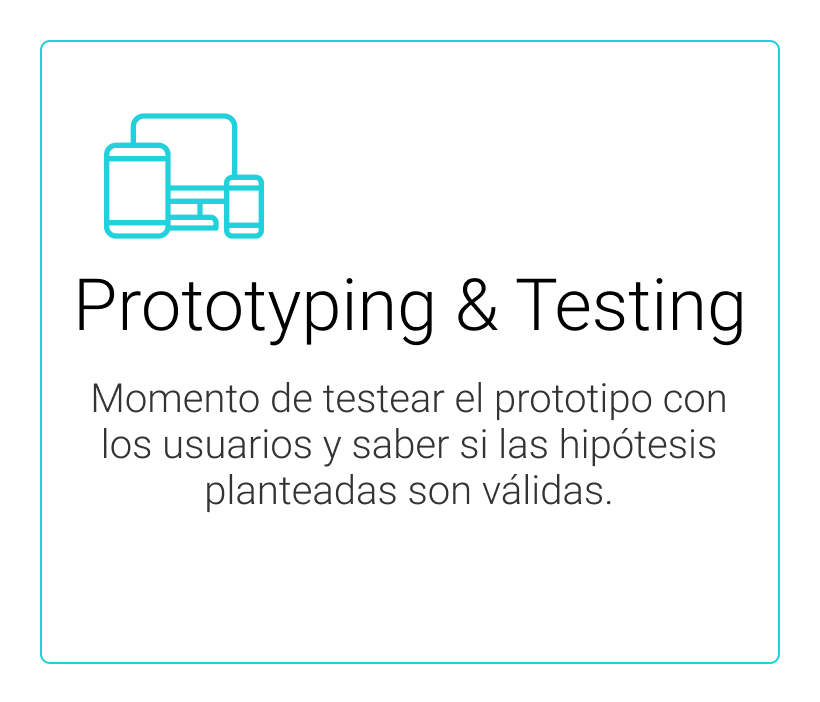
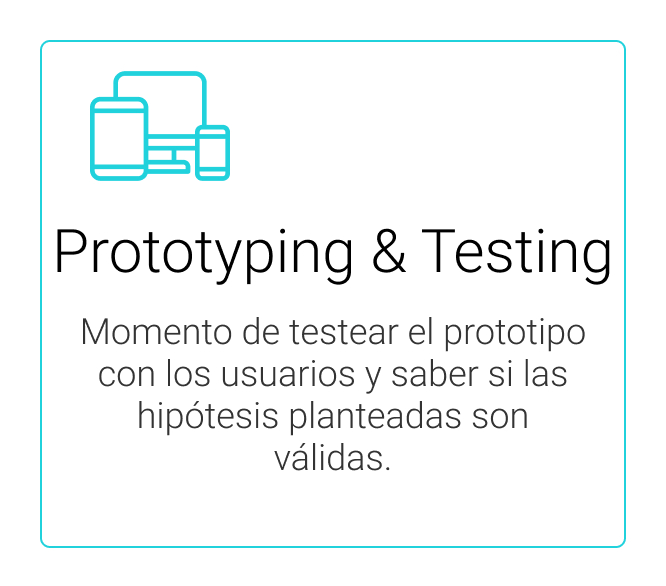
Agregue soft skills, modifique tamaños de habilidades, modifique background de contacto

Changed region(s): [[0.03, 0.0307, 0.961, 0.9522], [0.0901, 0.5222, 0.9009, 0.7986], [0.1201, 0.1229, 0.3604, 0.3686]]

diff --git a/index.html b/index.html
@@ -36,6 +36,9 @@
     <noscript><div><img src="https://mc.yandex.ru/watch/44880724" style="position:absolute; left:-9999px;" alt="" /></div></noscript>
 </head>
 <body>
+<!-- Loader -->
+<div id="page-preloader"><span class="spinner"></span></div>
+<!-- Loader end -->
 
 <!-- Header -->
 <header class="header header-home">
@@ -76,6 +79,8 @@
 <div class="mob-menu-wrapper hidden-md hidden-lg">
     <div class="close-mob-menu">
         <span class="mdi mdi-window-close"></span>
+        <!-- <img src="media/first-screen/fondo.jpg" alt=""> -->
+
     </div>
     <div class="mobile-box-wrap">
         <div class="mobile-box-flex">
@@ -97,8 +102,12 @@
     <div class="first-screen">
         <div class="container full-height">
             <div class="row full-height">
+                    <!-- <img src="media/first-screen/fondo.jpg" alt="" style="width:100px;height: 50;"> -->
                 <div class="col-lg-6 col-md-8 col-xs-12 full-height">
+                    <!-- <img src="media/first-screen/fondo.jpg" alt=""> -->
                     <div class="first-screen-box">
+                        <!-- <img src="media/first-screen/fondo.jpg" alt=""> -->
+
                         <div class="main-avatar">
                             <img src="media/first-screen/gianella-vargas.jpg" alt="">
                         </div>
@@ -107,10 +116,10 @@
                                 <h3>UX Designer</h3>
                             </div>
                             <div class="opacity-box">
-                                <p>Soy UX Designer de Laboratoria, donde trabajé con la metodologia ágil Scrum, bajo proyectos reales. Me gusta escuchar, observar y entender a las personas para que como usuarios se sientan satisfechos al interactuar con una app o web. Me interesa mucho aprender más sobre Visual design y Service design. Tengo un background en Desarrollo de sistemas y cuando puedo rescato animales que no tienen un hogar.</p>
+                                <p>Soy UX Designer de Laboratoria, donde trabajé con la metodologia ágil Scrum, bajo proyectos reales. Me gusta escuchar, observar y entender a las personas para que como usuarios se sientan satisfechos al interactuar con una app o web. Me interesa mucho aprender más sobre Visual design y Service design. Tengo un background en Desarrollo de Sistemas. Y cuando puedo rescato animales que no tienen un hogar.</p>
                             </div>
                         </div>
-                        <div class="about-me-info hidden-sm hidden-xs">
+                        <!-- <div class="about-me-info hidden-sm hidden-xs">
                             <p class="info-row">
                                 <span class="span-title">Celular</span>
                                 <span class="opacity-box">
@@ -134,9 +143,9 @@
                                     <a target="_blank" href="https://www.instagram.com/gianella_lisbeth/?hl=es-la" class="fa fonts-icons mdi mdi-instagram"></a>
                                 </span>
                             </p>
-                        </div>
+                        </div> -->
                         <div class="first-screen-buttons">
-                            <a class="site-btn btn-theme-white-tr hidden-sm hidden-xs" href="download/GianellaVargasQuispe.pdf" download>Descarga cv</a>
+                            <a class="site-btn btn-theme-white-tr hidden-sm hidden-xs" href="download/GianellaVargasQuispe.pdf" download>Descargar cv</a>
                         </div>
                     </div>
                 </div>
@@ -242,28 +251,28 @@
             <div class="margin-box" id="herramientas">
                 <h3>Herramientas</h3>
             </div>
-            <div class="col-sm-3 col-xs-12 project-item mob-apps">
+            <div class="col-sm-3 col-xs-6 project-item mob-apps">
                 <a class="project">
                     <div class="project-img">
                         <img src="media/projects/Habilidades-tecnicas-invision.jpg" alt="">
                     </div>
                 </a>
             </div>
-            <div class="col-sm-3 col-xs-12 project-item mob-apps">
+            <div class="col-sm-3 col-xs-6 project-item mob-apps">
                 <a class="project">
                     <div class="project-img">
                         <img src="media/projects/Habilidades-tecnicasfigma.jpg" alt="">
                     </div>
                 </a>
             </div>
-            <div class="col-sm-3 col-xs-12 project-item mob-apps">
+            <div class="col-sm-3 col-xs-6 project-item mob-apps">
                 <a class="project">
                     <div class="project-img">
                         <img src="media/projects/Habilidades-tecnnicas-zepli.jpg" alt="">
                     </div>
                 </a>
             </div>
-            <div class="col-sm-3 col-xs-12 project-item mob-apps">
+            <div class="col-sm-3 col-xs-6 project-item mob-apps">
                 <a class="project">
                     <div class="project-img">
                         <img src="media/projects/Habilidades-tecnicas-github.jpg" alt="">
@@ -291,14 +300,81 @@
                     </div>
                 </a>
             </div>
+            <div class="margin-box" id="herramientas">
+                <h3>Soft Skills</h3>
+            </div>
+            <div class="col-sm-12 col-xs-12 project-item mob-apps">
+                <a class="project">
+                    <div class="project-img">
+                        <img src="media/first-screen/fondo.jpg" alt="">
+                    </div>
+                </a>
+            </div>
+            <div class="col-sm-3 col-xs-6 project-item mob-apps">
+                <a class="project">
+                    <div class="project-img">
+                        <img src="media/projects/Solft-skills-adaptabilidad.jpg" alt="">
+                    </div>
+                </a>
+            </div>
+            <div class="col-sm-3 col-xs-6 project-item mob-apps">
+                <a class="project">
+                    <div class="project-img">
+                        <img src="media/projects/Solft-skills-solidaria.jpg" alt="">
+                    </div>
+                </a>
+            </div>
+            <div class="col-sm-3 col-xs-6 project-item mob-apps">
+                <a class="project">
+                    <div class="project-img">
+                        <img src="media/projects/Solft-skills-empatia.jpg" alt="">
+                    </div>
+                </a>
+            </div>
+            <div class="col-sm-3 col-xs-6 project-item mob-apps">
+                <a class="project">
+                    <div class="project-img">
+                        <img src="media/projects/Solft-skills-autoaprendizaje.jpg" alt="">
+                    </div>
+                </a>
+            </div>
+            <div class="col-sm-3 col-xs-6 project-item mob-apps">
+                <a class="project">
+                    <div class="project-img">
+                        <img src="media/projects/Solft-skills-comunicativa.jpg" alt="">
+                    </div>
+                </a>
+            </div>
+            <div class="col-sm-3 col-xs-6 project-item mob-apps">
+                <a class="project">
+                    <div class="project-img">
+                        <img src="media/projects/Solft-skills-analitica.jpg" alt="">
+                    </div>
+                </a>
+            </div>
+            <div class="col-sm-3 col-xs-6 project-item mob-apps">
+                <a class="project">
+                    <div class="project-img">
+                        <img src="media/projects/Solft-skills-trabajoenequipo.jpg" alt="">
+                    </div>
+                </a>
+            </div>
+            <div class="col-sm-3 col-xs-6 project-item mob-apps">
+                <a class="project">
+                    <div class="project-img">
+                        <img src="media/projects/Solft-skills-honesta.jpg" alt="">
+                    </div>
+                </a>
+            </div>
         </div>
     </div>
-    <div class="contacts-section section">
+
+    <div class="contacts-section section first-screen">
         <div class="container">
             <div class="row">
                 <div class="col-md-12">
                     <div id="contactame" class="section-title">
-                        <h3>Contáctame</h3>
+                        <h3 style="color: white">Contáctame</h3>
                     </div>
                 </div>
             </div>
@@ -357,7 +433,7 @@
                         <h3>Sobre mí</h3>
                     </div>
                     <div class="opacity-box">
-                        <p>Soy UX Designer de Laboratoria, donde trabajé con la metodologia ágil Scrum, bajo proyectos reales. Me gusta escuchar, observar y entender a las personas para que como usuarios se sientan satisfechos al interactuar con una app o web. Me interesa mucho aprender más sobre Visual design y Service design y cuando puedo rescato animales que no tienen un hogar.</p>
+                        <p>Soy UX Designer de Laboratoria, donde trabajé con la metodologia ágil Scrum, bajo proyectos reales. Me gusta escuchar, observar y entender a las personas para que como usuarios se sientan satisfechos al interactuar con una app o web. Me interesa mucho aprender más sobre Visual design y Service design. Tengo un background en Desarrollo de Sistemas. Y cuando puedo rescato animales que no tienen un hogar.</p>
                     </div>
                 </div>
                 <div class="modal-img">

diff --git a/project-4.html b/project-4.html
@@ -146,10 +146,10 @@
                         <div class="opacity-box">
                             <p>La prueba del usuario es una técnica utilizada en el diseño de interacción centrada en el usuario para evaluar un producto probándolo en los usuarios. Esto puede verse como una práctica de uso insustituible, ya que proporciona información directa sobre cómo los usuarios reales utilizan el sistema. Así que decidimos usar esta técnica en nuestra aplicación con estas tareas:</p>
                             <ol>
-                                <li>Elegir la función de las 18:00 horas del viernes 26 de julio.</li>
+                                <li>Elegir la función del viernes 26 de julio a las 18:00 horas .</li>
                                 <li>Seleccionar el asiento número 9 de la zona VIP.</li>
-                                <li>Comprar una entrada sin logearse ni registrarse, para el espetaculo de Los rollos de Katia.</li>
-                                <li>Comprar una entrada en una zona para discapacitados, para el espetaculo de Los rollos de Katia.</li>
+                                <li>Comprar una entrada sin logearse ni registrarse, para el espectáculo de Los rollos de Katia.</li>
+                                <li>Comprar una entrada en la zona para discapacitados, para el espectáculo de Los rollos de Katia.</li>
                             </ol>
                         </div>
                     </div>
@@ -158,7 +158,7 @@
                     </div>
                     <div class="margin-box">
                         <blockquote>
-                            La elección de fechas estuvo clara, los usuarios pudieron seleccionar mejor su asiento con el zoom de la zona que se elige, fue intuitiva la parte de comprar son tener una cuenta o registrarse. 
+                            La elección de fechas estuvo clara, los usuarios seleccionar mejor su asiento con el zoom de la zona que se elige, fue intuitiva la parte de comprar sin tener una cuenta o registrarse. 
                             <!-- <span>Steve Jobs, US computer engineer & industrialist.</span> -->
                         </blockquote>
                     </div>
@@ -243,7 +243,7 @@
                             <h3>Sobre mí</h3>
                         </div>
                         <div class="opacity-box">
-                            <p>Soy UX Designer de Laboratoria, donde trabajé con la metodologia ágil Scrum, bajo proyectos reales. Me gusta escuchar, observar y entender a las personas para que como usuarios se sientan satisfechos al interactuar con una app o web. Me interesa mucho aprender más sobre Visual design y Service design y cuando puedo rescato animales que no tienen un hogar.</p>
+                            <p>Soy UX Designer de Laboratoria, donde trabajé con la metodologia ágil Scrum, bajo proyectos reales. Me gusta escuchar, observar y entender a las personas para que como usuarios se sientan satisfechos al interactuar con una app o web. Me interesa mucho aprender más sobre Visual design y Service design. Tengo un background en Desarrollo de Sistemas. Y cuando puedo rescato animales que no tienen un hogar.</p>
                         </div>
                     </div>
                     <div class="modal-img">

diff --git a/project-1.html b/project-1.html
@@ -73,7 +73,7 @@
                 <div class="col-lg-12 col-md-8 content">
                     <div class="project-single-first-box">
                         <div class="project-single-title">
-                            <h3>Rediseño de app - Tus Finanzas.</h3>
+                            <h3>Rediseño de app - Tus Finanzas</h3>
                         </div>
                         <div class="project-single-desc">
                             <p>Completo rediseño en la parte visual de la aplicación móvil y nueva funcionalidad.</p>
@@ -115,14 +115,14 @@
                     <div class="margin-box">
                         <div class="img-box">
                             <img src="media/project-page/project-1/objetivos-app-financiera.png" alt="">
-                            <div class="legend">Figure 2. Objetivos del proyectos.</div>
+                            <div class="legend">Figure 2. Objetivos del proyecto.</div>
                         </div>
                     </div>   
                     <div class="margin-box">
                         <h4>Research & Analísis de data</h4>
                         <div class="opacity-box">
                             <ul>
-                                <li>Las personas acceden a la landing pero no pueden descargar la app porque utilizan celulares Android.</li>
+                                <li>Las personas acceden a la landing pero no pueden descargar la app, porque utilizan celulares Android.</li>
                                 <li>El user primario tiene 24 años, que es la edad promedio en que suele ahorrar una persona, no 18 como se había pensado.</li>
                             </ul>
                         </div>
@@ -263,7 +263,7 @@
                             <h3>Sobre mí</h3>
                         </div>
                         <div class="opacity-box">
-                            <p>Soy UX Designer de Laboratoria, donde trabajé con la metodologia ágil Scrum, bajo proyectos reales. Me gusta escuchar, observar y entender a las personas para que como usuarios se sientan satisfechos al interactuar con una app o web. Me interesa mucho aprender más sobre Visual design y Service design y cuando puedo rescato animales que no tienen un hogar.</p>
+                            <p>Soy UX Designer de Laboratoria, donde trabajé con la metodologia ágil Scrum, bajo proyectos reales. Me gusta escuchar, observar y entender a las personas para que como usuarios se sientan satisfechos al interactuar con una app o web. Me interesa mucho aprender más sobre Visual design y Service design. Tengo un background en Desarrollo de Sistemas. Y cuando puedo rescato animales que no tienen un hogar.</p>
                         </div>
                     </div>
                     <div class="modal-img">

diff --git a/project-2.html b/project-2.html
@@ -244,7 +244,7 @@
                             <h3>Sobre mí</h3>
                         </div>
                         <div class="opacity-box">
-                            <p>Soy UX Designer de Laboratoria, donde trabajé con la metodologia ágil Scrum, bajo proyectos reales. Me gusta escuchar, observar y entender a las personas para que como usuarios se sientan satisfechos al interactuar con una app o web. Me interesa mucho aprender más sobre Visual design y Service design y cuando puedo rescato animales que no tienen un hogar.</p>
+                            <p>Soy UX Designer de Laboratoria, donde trabajé con la metodologia ágil Scrum, bajo proyectos reales. Me gusta escuchar, observar y entender a las personas para que como usuarios se sientan satisfechos al interactuar con una app o web. Me interesa mucho aprender más sobre Visual design y Service design. Tengo un background en Desarrollo de Sistemas. Y cuando puedo rescato animales que no tienen un hogar.</p>
                         </div>
                     </div>
                     <div class="modal-img">

diff --git a/project-3.html b/project-3.html
@@ -266,7 +266,7 @@
                             <h3>Sobre mí</h3>
                         </div>
                         <div class="opacity-box">
-                            <p>Soy UX Designer de Laboratoria, donde trabajé con la metodologia ágil Scrum, bajo proyectos reales. Me gusta escuchar, observar y entender a las personas para que como usuarios se sientan satisfechos al interactuar con una app o web. Me interesa mucho aprender más sobre Visual design y Service design y cuando puedo rescato animales que no tienen un hogar.</p>
+                            <p>Soy UX Designer de Laboratoria, donde trabajé con la metodologia ágil Scrum, bajo proyectos reales. Me gusta escuchar, observar y entender a las personas para que como usuarios se sientan satisfechos al interactuar con una app o web. Me interesa mucho aprender más sobre Visual design y Service design. Tengo un background en Desarrollo de Sistemas. Y cuando puedo rescato animales que no tienen un hogar.</p>
                         </div>
                     </div>
                     <div class="modal-img">

diff --git a/css/theme.css b/css/theme.css
@@ -411,7 +411,7 @@ body {
   padding: 60px 0 30px; }
 
 .section.contacts-section {
-  background-image: url("/media/projects/Fondo-contacto.jpg");
+  /* background-image: url("/media/projects/Fondo-contacto.jpg"); */
   /* background-color: #21D1DC; */
   border-top: 1px solid #e5e5e5; }
 
